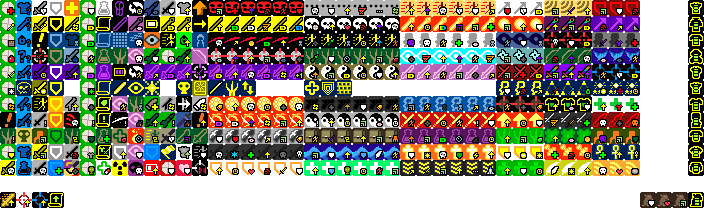
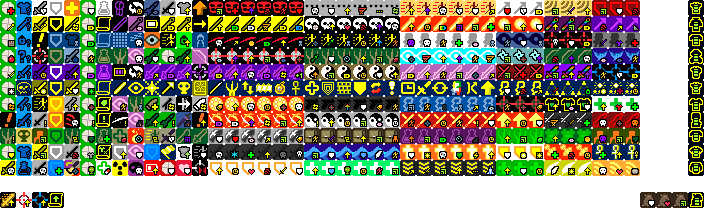
성직자 신규 주문 및 특성, 보조 직업 틀 추가

diff --git a/core/src/main/java/com/shatteredpixel/shatteredpixeldungeon/actors/hero/Talent.java b/core/src/main/java/com/shatteredpixel/shatteredpixeldungeon/actors/hero/Talent.java
@@ -396,14 +396,14 @@ public enum Talent {
 	HOLY_INTUITION				(1, 5),
 	SEARING_LIGHT				(2, 5),
 	SHIELD_OF_LIGHT				(3, 5),
-
+	WARDING_LIGHT				(4, 5),
 	//Cleric T2
 	ENLIGHTENING_MEAL			(5, 5),
 	RECALL_INSCRIPTION			(6, 5),
 	SUNRAY						(7, 5),
 	DIVINE_SENSE				(8, 5),
 	BLESS						(9, 5),
-
+	DIVINE_BLAST				(10, 5),
 	//Cleric T3
 	CLEANSE						(11, 5, 3),
 	LIGHT_READING				(12, 5, 3),
@@ -411,23 +411,23 @@ public enum Talent {
 	HOLY_LANCE					(13, 5, 3),
 	HALLOWED_GROUND				(14, 5, 3),
 	MNEMONIC_PRAYER				(15, 5, 3),
-
-
-
+	DIVINE_RAY					(16, 5, 3),
+	HOLY_BOMB					(17, 5, 3),
+	RESURRECTION				(18, 5, 3),
 	//Paladin T3
 	LAY_ON_HANDS				(19, 5, 3),
 	AURA_OF_PROTECTION			(20, 5, 3),
 	WALL_OF_LIGHT				(21, 5, 3),
-
-
-
-	//
-
-
-
-
-
-
+	HOLY_MANTLE	 				(22, 5, 3),
+	POWER_OF_LIFE				(23, 5, 3),
+	INDUCE_AGGRO 				(24, 5, 3),
+	//Enchanter T3
+	TIME_AMP	   				(25, 5, 3),
+	WEAKENING_HEX  				(26, 5, 3),
+	STUN		   				(27, 5, 3),
+	ELEMENTAL_IMBUE				(28, 5, 3),
+	ARCANE_ARMOR 				(29, 5, 3),
+	ENCHANT		   				(30, 5, 3),
 	//Ascended Form T4
 	DIVINE_INTERVENTION			(31, 5, 4),
 	JUDGEMENT					(32, 5, 4),
@@ -2372,7 +2372,7 @@ public enum Talent {
 				Collections.addAll(tierTalents, SCAR_ATTACK, DOCTORS_INTUITION, FINISH_ATTACK, FIRST_AID_TREAT, BREAKTHROUGH);
 				break;
 			case CLERIC:
-				Collections.addAll(tierTalents, SATIATED_SPELLS, HOLY_INTUITION, SEARING_LIGHT, SHIELD_OF_LIGHT);
+				Collections.addAll(tierTalents, SATIATED_SPELLS, HOLY_INTUITION, SEARING_LIGHT, SHIELD_OF_LIGHT, WARDING_LIGHT);
 				break;
 		}
 		for (Talent talent : tierTalents){
@@ -2416,7 +2416,7 @@ public enum Talent {
 				Collections.addAll(tierTalents, HEALING_MEAL, RECYCLING, HIGH_POWER, RADIATION, STRONG_HEALPOWER, DIET);
 				break;
 			case CLERIC:
-				Collections.addAll(tierTalents, ENLIGHTENING_MEAL, RECALL_INSCRIPTION, SUNRAY, DIVINE_SENSE, BLESS);
+				Collections.addAll(tierTalents, ENLIGHTENING_MEAL, RECALL_INSCRIPTION, SUNRAY, DIVINE_SENSE, BLESS, DIVINE_BLAST);
 				break;
 		}
 		for (Talent talent : tierTalents){
@@ -2537,14 +2537,14 @@ public enum Talent {
 				Collections.addAll(tierTalents, CLAM_STEPS, CRITICAL_MOMENTUM, KINETIC_MOVEMENT, AGGRESSIVE_MOVEMENT, UNENCUMBERED_MOVEMENT, SOULIZE );
 				break;
 			case PRIEST:
-				Collections.addAll(tierTalents, HOLY_LANCE, HALLOWED_GROUND, MNEMONIC_PRAYER);
+				Collections.addAll(tierTalents, HOLY_LANCE, HALLOWED_GROUND, MNEMONIC_PRAYER, DIVINE_RAY, HOLY_BOMB, RESURRECTION );
 				break;
 			case PALADIN:
-				Collections.addAll(tierTalents, LAY_ON_HANDS, AURA_OF_PROTECTION, WALL_OF_LIGHT);
+				Collections.addAll(tierTalents, LAY_ON_HANDS, AURA_OF_PROTECTION, WALL_OF_LIGHT, HOLY_MANTLE, POWER_OF_LIFE, INDUCE_AGGRO );
 				break;
-
-
-
+			case ENCHANTER:
+				Collections.addAll(tierTalents, TIME_AMP, WEAKENING_HEX, STUN, ELEMENTAL_IMBUE, ARCANE_ARMOR, ENCHANT );
+				break;
 			case OUTLAW:
 				Collections.addAll(tierTalents, ROLLING, PERFECT_FOCUSING, HONORABLE_SHOT, BULLET_TIME, INEVITABLE_DEATH, HEADSHOT );
 				break;

diff --git a/core/src/main/java/com/shatteredpixel/shatteredpixeldungeon/ui/HeroIcon.java b/core/src/main/java/com/shatteredpixel/shatteredpixeldungeon/ui/HeroIcon.java
@@ -65,7 +65,7 @@ public class HeroIcon extends Image {
 
 	public static final int PRIEST		= 20;
 	public static final int PALADIN		= 21;
-//	public static final int 			= 22;
+	public static final int ENCHANTER	= 22;
 //	public static final int 			= 23;
 
 	//new classes
@@ -242,6 +242,21 @@ public class HeroIcon extends Image {
 	public static final int BEAMING_RAY     = 168;
 	public static final int LIFE_LINK       = 169;
 	public static final int STASIS          = 170;
+//cleric new spells
+	public static final int DIVINE_BLAST	= 171;
+	public static final int DIVINE_RAY	    = 172;
+	public static final int HOLY_BOMB	    = 173;
+	public static final int RESURRECTION    = 174;
+	public static final int HOLY_MANTLE	    = 175;
+	public static final int POWER_OF_LIFE   = 176;
+	public static final int INDUCE_AGGRO    = 178;
+	public static final int SPELL_BLAST	    = 179;
+	public static final int TIME_AMP	    = 180;
+	public static final int WEAKENING_HEX   = 181;
+	public static final int STUN		    = 182;
+	public static final int ELEMENTAL_IMBUE = 183;
+	public static final int ARCANE_ARMOR 	= 184;
+	public static final int ENCHANT		    = 185;
 
 	//all cleric spells have a separate icon with no background for the action indicator
 	public static final int SPELL_ACTION_OFFSET      = 48;

diff --git a/core/src/main/java/com/shatteredpixel/shatteredpixeldungeon/Badges.java b/core/src/main/java/com/shatteredpixel/shatteredpixeldungeon/Badges.java
@@ -220,7 +220,7 @@ public class Badges {
 
 		BOSS_SLAIN_3_PRIEST,
 		BOSS_SLAIN_3_PALADIN,
-
+		BOSS_SLAIN_3_ENCHANTER,
 
 		BOSS_SLAIN_3_OUTLAW,
 		BOSS_SLAIN_3_GUNSLINGER,
@@ -887,7 +887,7 @@ public class Badges {
 		thirdBossSubclassBadges.put(HeroSubClass.FENCER, Badge.BOSS_SLAIN_3_FENCER);
 		thirdBossSubclassBadges.put(HeroSubClass.PRIEST, Badge.BOSS_SLAIN_3_PRIEST);
 		thirdBossSubclassBadges.put(HeroSubClass.PALADIN, Badge.BOSS_SLAIN_3_PALADIN);
-
+		thirdBossSubclassBadges.put(HeroSubClass.ENCHANTER, Badge.BOSS_SLAIN_3_ENCHANTER);
 		thirdBossSubclassBadges.put(HeroSubClass.OUTLAW, Badge.BOSS_SLAIN_3_OUTLAW);
 		thirdBossSubclassBadges.put(HeroSubClass.GUNSLINGER, Badge.BOSS_SLAIN_3_GUNSLINGER);
 		thirdBossSubclassBadges.put(HeroSubClass.SPECIALIST, Badge.BOSS_SLAIN_3_SPECIALIST);

diff --git a/core/src/main/java/com/shatteredpixel/shatteredpixeldungeon/actors/hero/HeroClass.java b/core/src/main/java/com/shatteredpixel/shatteredpixeldungeon/actors/hero/HeroClass.java
@@ -133,7 +133,7 @@ public enum HeroClass {
 	ROGUE( HeroSubClass.ASSASSIN, HeroSubClass.FREERUNNER, HeroSubClass.CHASER ),
 	HUNTRESS( HeroSubClass.SNIPER, HeroSubClass.WARDEN, HeroSubClass.FIGHTER ),
 	DUELIST( HeroSubClass.CHAMPION, HeroSubClass.MONK, HeroSubClass.FENCER ),
-	CLERIC( HeroSubClass.PRIEST, HeroSubClass.PALADIN ),
+	CLERIC( HeroSubClass.PRIEST, HeroSubClass.PALADIN, HeroSubClass.ENCHANTER ),
 	GUNNER( HeroSubClass.OUTLAW, HeroSubClass.GUNSLINGER, HeroSubClass.SPECIALIST ),
 	SAMURAI( HeroSubClass.SLASHER, HeroSubClass.MASTER, HeroSubClass.SLAYER ),
 	ADVENTURER( HeroSubClass.ENGINEER, HeroSubClass.EXPLORER, HeroSubClass.RESEARCHER ),

diff --git a/core/src/main/java/com/shatteredpixel/shatteredpixeldungeon/actors/hero/HeroSubClass.java b/core/src/main/java/com/shatteredpixel/shatteredpixeldungeon/actors/hero/HeroSubClass.java
@@ -54,6 +54,7 @@ public enum HeroSubClass {
 
 	PRIEST(HeroIcon.PRIEST),
 	PALADIN(HeroIcon.PALADIN),
+	ENCHANTER(HeroIcon.ENCHANTER),
 
 	OUTLAW(HeroIcon.OUTLAW),
 	GUNSLINGER(HeroIcon.GUNSLINGER),
